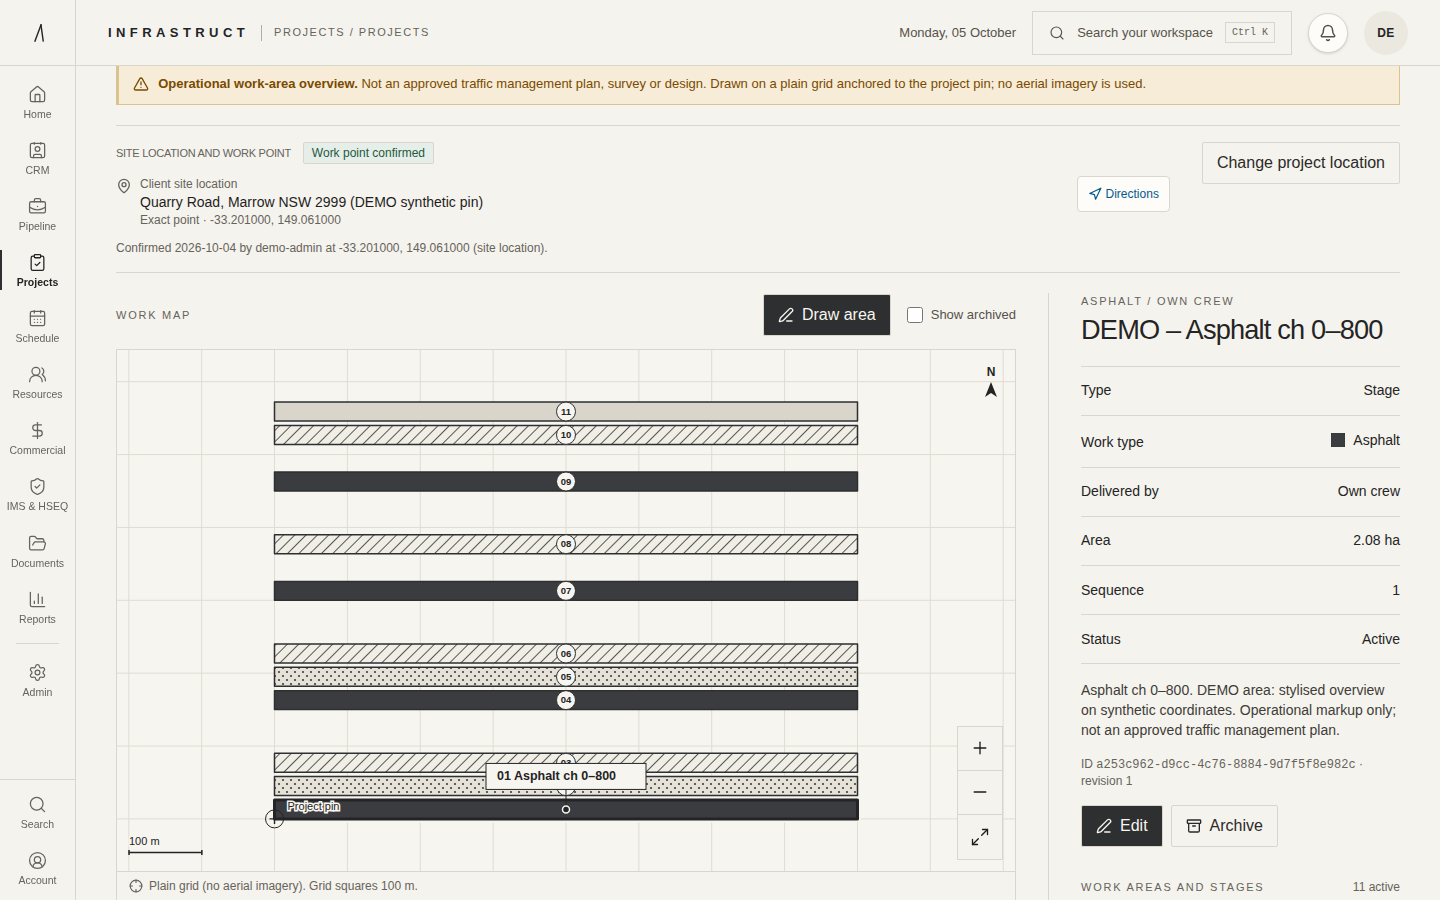
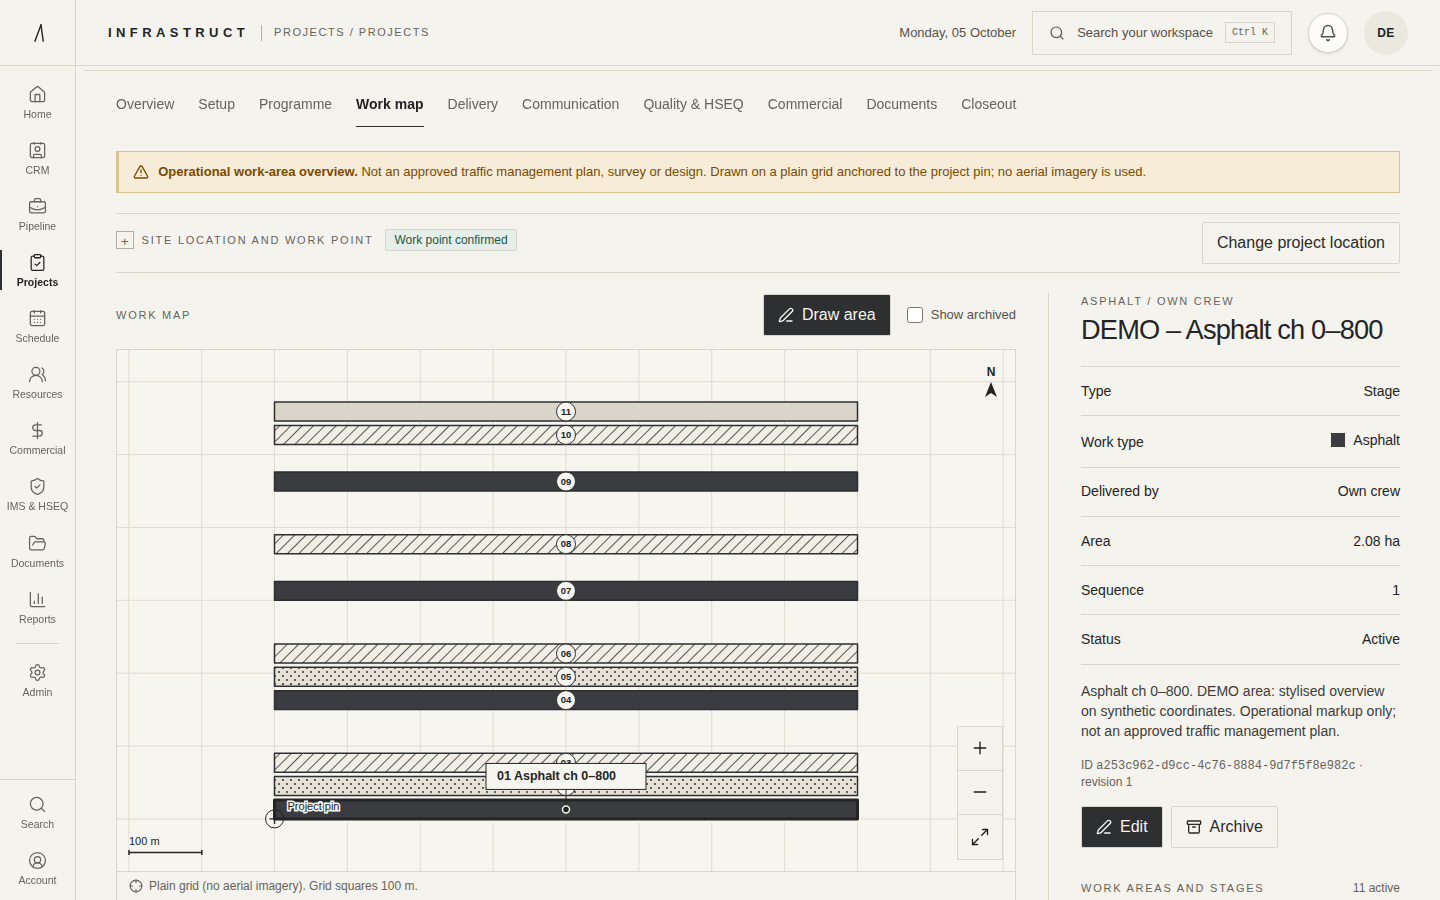
Graphite Studio: canvas-first Work map and Planning layout
Compact project header with expandable details, one-row location strip,
tighter Planning summary; journeys retargeted for the disclosures.

Claude-Session: https://claude.ai/code/session_016qGf8yC18GfRqLTggCdR9L

diff --git a/components/v1/projects.tsx b/components/v1/projects.tsx
@@ -111,17 +111,17 @@ function ProjectWorkspace({id,tab,focus,area,onBack}:{id:string;tab?:string;focu
  const tabs:Array<{key:TabKey;label:string;badge?:ReactNode;hidden?:boolean}>=[{key:'overview',label:'Overview'},{key:'setup',label:'Setup',badge:d.readiness.blockers.length&&p.stage==='setup'?<Pill tone="warning">{d.readiness.blockers.length}</Pill>:undefined},{key:'programme',label:'Programme'},{key:'workmap',label:'Work map'},{key:'delivery',label:'Delivery'},{key:'communication',label:'Communication',hidden:!session.can('communication.view')},{key:'quality',label:'Quality & HSEQ',hidden:!session.module('ims')},{key:'commercial',label:'Commercial',hidden:!session.can('commercial.view')||!session.module('commercial')},{key:'documents',label:'Documents'},{key:'closeout',label:'Closeout'}];
  const blockedReady=d.readiness.blockers.length>0,blockedClose=Boolean(d.closeout?.blockers.length);
  return <div>
-  <div className="-mx-4 mb-4 border-b bg-[var(--gs-ivory)] px-4 pb-4 pt-1 sm:-mx-6 sm:px-6 lg:-mx-8 lg:px-8">
-   <PageHeader crumbs={[{label:'Projects',onClick:onBack},{label:p.name,onClick:active==='overview'?undefined:()=>navigate(area,'Projects',id)},...(active==='overview'?[]:[{label:TAB_LABEL[active]}])]} title={p.name} badges={<StatusBadge machine="project" state={p.stage}/>}
-    subtitle={[p.projectNumber,p.clientName||'No client',p.projectManagerName?`PM ${p.projectManagerName}`:'No PM assigned',session.can('commercial.view')&&p.contractValue!=null?`Contract ${money(p.contractValue)}`:null].filter(Boolean).join(' · ')}
+  <div className="-mx-4 mb-3 border-b bg-[var(--gs-ivory)] px-4 pb-2 pt-1 sm:-mx-6 sm:px-6 lg:-mx-8 lg:px-8">
+   <PageHeader compact crumbs={[{label:'Projects',onClick:onBack},{label:p.name,onClick:active==='overview'?undefined:()=>navigate(area,'Projects',id)},...(active==='overview'?[]:[{label:TAB_LABEL[active]}])]} title={p.name} badges={<StatusBadge machine="project" state={p.stage}/>}
     actions={<div className="flex flex-wrap items-center gap-2">{p.stage==='setup'&&<Progress value={d.readiness.percent} label={blockedReady?`${d.readiness.blockers.length} blocker${d.readiness.blockers.length===1?'':'s'}`:'Ready'}/>}{moves.filter(m=>session.can(m.capability)).map(m=>{const blocked=m.to==='ready'&&blockedReady||m.to==='closed'&&blockedClose;return <Btn key={m.to} variant={m.to==='closed'?'danger':blocked?'secondary':'primary'} busy={busy} disabled={blocked} title={blocked?(m.to==='ready'?'Resolve the readiness blockers first':'Resolve the closeout items first'):undefined} onClick={()=>move(m.to)}>{m.label}</Btn>;})}</div>}/>
-   <NextAction text={p.nextAction} onClick={nextGo} actionLabel={nextTarget?.kind==='tab'?`Go to ${TAB_LABEL[nextTarget.tab]}`:'Go'}/>
+   <details key={active} className="gs-details" open={active!=='workmap'&&active!=='programme'}><summary>Details and next action</summary><p className="mb-3 text-[13px] leading-6 tracking-[0.02em] text-slate-500">{[p.projectNumber,p.clientName||'No client',p.projectManagerName?`PM ${p.projectManagerName}`:'No PM assigned',session.can('commercial.view')&&p.contractValue!=null?`Contract ${money(p.contractValue)}`:null].filter(Boolean).join(' · ')}</p>
+   <NextAction text={p.nextAction} onClick={nextGo} actionLabel={nextTarget?.kind==='tab'?`Go to ${TAB_LABEL[nextTarget.tab]}`:'Go'}/></details>
   </div>
   <ReasonDialog open={Boolean(reopening)} title="Reopen project" description="This moves the project from Closed back to Closeout so records can be added or corrected. The reason is recorded in the audit trail." label="Reason for reopening" required confirmLabel="Reopen project" busy={busy} onCancel={()=>setReopening(null)} onConfirm={r=>{const to=reopening!;setReopening(null);move(to,r);}}/>
   <ErrorState error={actionError||error} onRetry={refresh}/>
   {closed&&<p className="mb-4 rounded-lg border bg-slate-50 p-3 text-sm text-slate-600">This project is closed. Records are read-only; reopen it (with a reason) to add operational records.</p>}
   {/* Phones: one labelled picker for the seven areas (no sideways tab hunt). Same routes, so deep links and back/forward work. */}
-  <label className="sticky top-[66px] z-10 -mx-4 mb-4 grid gap-1 border-b bg-[var(--gs-ivory)] px-4 pb-3 pt-2 text-sm sm:hidden"><span className="truncate text-xs font-semibold uppercase tracking-wide text-slate-500">{p.name} · section</span><select aria-label="Project section" className={`${field} font-semibold`} value={active} onChange={e=>navigate(area,'Projects',id,e.target.value)}>{tabs.filter(t=>!t.hidden).map(t=><option key={t.key} value={t.key}>{t.label}{t.key==='setup'&&p.stage==='setup'&&d.readiness.blockers.length?` · ${d.readiness.blockers.length} blocker${d.readiness.blockers.length===1?'':'s'}`:''}</option>)}</select></label>
+  <label className="sticky top-[66px] z-10 -mx-4 mb-3 grid gap-1 border-b bg-[var(--gs-ivory)] px-4 pb-2 pt-1 text-sm sm:hidden"><span className="sr-only">Section</span><select aria-label="Project section" className={`${field} font-semibold`} value={active} onChange={e=>navigate(area,'Projects',id,e.target.value)}>{tabs.filter(t=>!t.hidden).map(t=><option key={t.key} value={t.key}>{t.label}{t.key==='setup'&&p.stage==='setup'&&d.readiness.blockers.length?` · ${d.readiness.blockers.length} blocker${d.readiness.blockers.length===1?'':'s'}`:''}</option>)}</select></label>
   <div className="hidden sm:block"><Tabs label="Project workspace" tabs={tabs} active={active} onChange={k=>navigate(area,'Projects',id,k)}/></div>
   {active==='overview'&&<Overview d={d} onTab={k=>navigate(area,'Projects',id,k)} goTarget={goTarget}/>}
   {active==='workmap'&&<WorkMap key={`${id}:${focus||''}`} projectId={id} focusId={focus}/>}

diff --git a/components/v1/work-point.tsx b/components/v1/work-point.tsx
@@ -18,18 +18,19 @@ export function WorkPointPanel({data,onChanged}:{data:WorkMapView;onChanged:()=>
  const drawn=Boolean(draft?.pin&&validPoint(draft.pin));
  const patch=(body:Record<string,unknown>,done:string)=>void act.run(()=>api('/api/projects/workspace',{method:'PATCH',body:{id:data.projectId,revision:data.projectRevision,...body}}),()=>{setEditing(false);setDraft(null);setNote(done);onChanged();});
  const confirm=()=>void act.run(()=>api('/api/projects/work-point',{method:'POST',body:{projectId:data.projectId}}),()=>{setNote('Work point confirmed.');onChanged();});
- return <section aria-label="Site location and work point" className="border-y border-[var(--gs-line)] py-4">
+ return <section aria-label="Site location and work point" className="border-y border-[var(--gs-line)] py-2">
   <div className="grid gap-x-8 gap-y-3 lg:grid-cols-[minmax(0,1fr)_auto]" data-testid="work-point" data-status={wp.status}>
    <div className="grid min-w-0 gap-3">
-    <div className="flex flex-wrap items-center gap-x-3 gap-y-1"><h2 className="gs-eyebrow">Site location and work point</h2><Pill tone={TONE[wp.status]}>{LABEL[wp.status]}</Pill></div>
+    <details className="gs-details"><summary className="!min-h-9 !normal-case !tracking-normal"><span className="flex flex-wrap items-center gap-x-3 gap-y-1"><span className="gs-eyebrow">Site location and work point</span><Pill tone={TONE[wp.status]}>{LABEL[wp.status]}</Pill></span></summary><div className="grid gap-3 pb-2">
     {wp.current?<LocationSummary label={wp.source==='project'?'Project location (set for this project; the client site is unchanged)':wp.source==='site'?'Client site location':'Location'} location={{...EMPTY_PARTS,pin:wp.current,formattedAddress:wp.label}}/>:<p className="text-sm text-slate-600">No location is saved for this project yet. Search the site address or enter coordinates, then confirm the work point.</p>}
+    {wp.confirmed&&<p className="text-xs text-slate-500" data-testid="work-point-confirmed">Confirmed {wp.confirmed.confirmedAt.slice(0,10)}{wp.confirmed.confirmedBy?` by ${wp.confirmed.confirmedBy}`:''} at {wp.confirmed.point.lat.toFixed(6)}, {wp.confirmed.point.lng.toFixed(6)} ({wp.confirmed.source} location).</p>}
+    </div></details>
     {wp.status==='moved'&&<p role="alert" className="gs-note gs-note-error" data-testid="work-point-moved"><AlertTriangle aria-hidden className="mt-0.5 size-4 shrink-0"/><span><strong>The project location moved {wp.distanceM?.toLocaleString('en-AU')} m</strong> from the confirmed work point. Saved work areas have <strong>not</strong> moved: they stay where they were drawn. Review them against the new location, then confirm the new work point.</span></p>}
     {wp.status==='unconfirmed'&&hasAreas&&<p role="status" className="gs-note gs-note-warn" data-testid="work-point-unconfirmed"><AlertTriangle aria-hidden className="mt-0.5 size-4 shrink-0"/><span>The work point has not been confirmed. Check the pin and confirm it so later address changes can be flagged.</span></p>}
-    {wp.confirmed&&<p className="text-xs text-slate-500" data-testid="work-point-confirmed">Confirmed {wp.confirmed.confirmedAt.slice(0,10)}{wp.confirmed.confirmedBy?` by ${wp.confirmed.confirmedBy}`:''} at {wp.confirmed.point.lat.toFixed(6)}, {wp.confirmed.point.lng.toFixed(6)} ({wp.confirmed.source} location).</p>}
     {note&&<p role="status" className="gs-note gs-note-ok"><CheckCircle2 aria-hidden className="mt-0.5 size-4 shrink-0"/><span>{note}</span></p>}
     {act.error&&<p role="alert" className="gs-note gs-note-error" data-testid="work-point-error"><AlertTriangle aria-hidden className="mt-0.5 size-4 shrink-0"/><span>{act.error}</span></p>}
    </div>
-   {data.canEdit&&!editing&&<div className="flex flex-wrap content-start gap-2 lg:max-w-[22rem] lg:justify-end">
+   {data.canEdit&&!editing&&<div className="flex flex-wrap content-start gap-2 lg:max-w-[22rem] lg:justify-end [&_button]:max-sm:min-h-10 [&_button]:max-sm:text-sm">
     {wp.current&&wp.status!=='confirmed'&&<Btn onClick={confirm} busy={act.busy} data-testid="confirm-work-point"><MapPin aria-hidden className="size-4"/>Confirm this work point</Btn>}
     <Btn variant="secondary" onClick={()=>{setEditing(true);setNote('');act.setError('');}} data-testid="change-location">{wp.current?'Change project location':'Set project location'}</Btn>
     {wp.source==='project'&&<Btn variant="secondary" onClick={()=>patch({useSiteLocation:true},'Using the client site location again. Work areas did not move.')} busy={act.busy} data-testid="use-site-location">Use the client site location</Btn>}

diff --git a/components/v1/planning.tsx b/components/v1/planning.tsx
@@ -140,7 +140,7 @@ function Editor({scenarioId,onBack}:{scenarioId:string;onBack:()=>void}){
  const unknownCount=total?.unknownCount??0,durationUnknown=!result.duration.complete;
  const leave=()=>{if(dirty&&!window.confirm('You have unsaved changes to this plan. Leave without saving?'))return;onBack();};
  return <div className={`plan-ui space-y-5 lg:pb-0 ${selectedAct&&view!=='Costs'&&!drawer?(sheetOpen?'pb-[62vh]':'pb-32'):'pb-24'}`}>
-  <PageHeader crumbs={[{label:'Planning',onClick:leave},{label:data.plan.name}]} title={data.plan.name} subtitle="Undated methodology plan. The timeline is relative: working days from the start of the plan, with no availability claims."
+  <PageHeader compact crumbs={[{label:'Planning',onClick:leave},{label:data.plan.name}]} title={data.plan.name} subtitle="Undated methodology plan. The timeline is relative: working days from the start of the plan, with no availability claims."
    badges={<><Pill tone="info">Scenario: {data.scenario.name}</Pill>{dirty&&<Pill tone="warning">Unsaved changes</Pill>}</>}/>
   <div data-testid="plan-actionbar" className="plan-actionbar sticky top-0 z-30 -mx-1 flex flex-wrap items-center justify-between gap-2 rounded-xl px-3 py-2">
    <p className="text-sm text-slate-600" aria-live="off">{!editable?'View only':dirty?<span className="font-medium text-amber-800">Edits not saved yet</span>:'No pending edits'}</p>
@@ -160,12 +160,12 @@ function Editor({scenarioId,onBack}:{scenarioId:string;onBack:()=>void}){
   <div className="plan-card min-w-0 overflow-hidden">
    <div className="flex flex-wrap items-center justify-between gap-3 border-b border-[var(--plan-line)] px-3 py-2.5 sm:px-4">
     <Tabs label="Planning views" active={view} onChange={setView} tabs={[{key:'Flowchart',label:'Flowchart'},{key:'Timeline',label:'Relative timeline'},{key:'Costs',label:'Costs'}]}/>
-    <div className="flex flex-wrap items-center gap-2">
-     <select aria-label="Scenario" className={`${fieldClass} !min-h-10 !w-auto max-w-[14rem]`} value={data.scenario.id} disabled={dirty} onChange={e=>setCurrent(e.target.value)}>{data.plan.scenarios.map(s=><option key={s.id} value={s.id}>{s.name}</option>)}</select>
+    <div className="flex min-w-0 flex-wrap items-center gap-2 max-sm:w-full">
+     <select aria-label="Scenario" className={`${fieldClass} !min-h-10 !w-auto max-w-[14rem] max-sm:!max-w-full`} value={data.scenario.id} disabled={dirty} onChange={e=>setCurrent(e.target.value)}>{data.plan.scenarios.map(s=><option key={s.id} value={s.id}>{s.name}</option>)}</select>
      {dirty&&<p className="text-xs text-slate-500">Save or discard changes before switching.</p>}
     </div>
    </div>
-   {editable&&!dirty&&<form className="flex flex-wrap items-end gap-2 border-b border-[var(--plan-line)] px-3 py-2.5 sm:px-4" onSubmit={e=>{e.preventDefault();if(newName.trim())void newScenario();}}><Field label="Save a copy as a new scenario"><input className={fieldClass} value={newName} maxLength={180} onChange={e=>setNewName(e.target.value)} placeholder="e.g. Night shift option"/></Field><Btn type="submit" variant="secondary" disabled={!newName.trim()} busy={save.busy}><GitBranch aria-hidden className="size-4"/>New scenario</Btn></form>}
+   {editable&&!dirty&&<details className="gs-details border-b border-[var(--plan-line)] px-3 sm:px-4"><summary>New scenario</summary><form className="flex flex-wrap items-end gap-2 pb-3" onSubmit={e=>{e.preventDefault();if(newName.trim())void newScenario();}}><Field label="Save a copy as a new scenario"><input className={fieldClass} value={newName} maxLength={180} onChange={e=>setNewName(e.target.value)} placeholder="e.g. Night shift option"/></Field><Btn type="submit" variant="secondary" disabled={!newName.trim()} busy={save.busy}><GitBranch aria-hidden className="size-4"/>New scenario</Btn></form></details>}
    <div className="p-3 sm:p-4">
     {view==='Flowchart'&&<div className="md:hidden"><div className="mb-3 inline-flex rounded-lg bg-[var(--plan-soft)] p-1 text-sm" role="group" aria-label="Flowchart layout"><button aria-pressed={!mobileCanvas} className={`rounded-md px-3 py-1.5 ${!mobileCanvas?'bg-white font-semibold shadow-sm':'text-slate-600'}`} onClick={()=>setMobileCanvas(false)}>List</button><button aria-pressed={mobileCanvas} className={`rounded-md px-3 py-1.5 ${mobileCanvas?'bg-white font-semibold shadow-sm':'text-slate-600'}`} onClick={()=>setMobileCanvas(true)}>Canvas</button></div></div>}
     {view==='Flowchart'&&<>

diff --git a/components/v1/kit.tsx b/components/v1/kit.tsx
@@ -70,8 +70,8 @@ export function Crumbs({items}:{items:Array<{label:string;onClick?:()=>void}>}){
  return <nav aria-label="Breadcrumb" className="gs-crumb mb-2 flex flex-wrap items-center gap-1 max-sm:flex-nowrap max-sm:overflow-hidden">{items.map((c,i)=><span key={i} className="flex min-w-0 items-center gap-1 max-sm:[&:not(:first-child):not(:last-child)]:hidden">{i>0&&<ChevronRight aria-hidden className="size-3"/>}{c.onClick?<button className="uppercase hover:text-slate-900 hover:underline" onClick={c.onClick}>{c.label}</button>:<span className="text-slate-700">{c.label}</span>}</span>)}</nav>;
 }
 
-export function PageHeader({title,subtitle,actions,crumbs,badges}:{title:ReactNode;subtitle?:ReactNode;actions?:ReactNode;crumbs?:Array<{label:string;onClick?:()=>void}>;badges?:ReactNode}){
- return <header className="workspace-page-header mb-7">{crumbs&&<Crumbs items={crumbs}/>}<div className="flex flex-wrap items-end justify-between gap-x-6 gap-y-3"><div className="min-w-0"><h1 className="gs-title flex flex-wrap items-center gap-x-3 gap-y-1">{title}{badges&&<span className="inline-flex items-center text-[13px] font-normal tracking-normal">{badges}</span>}</h1>{subtitle&&<p className="mt-2.5 max-w-3xl text-[13px] leading-6 tracking-[0.02em] text-slate-500">{subtitle}</p>}</div>{actions&&<div className="flex flex-wrap gap-2">{actions}</div>}</div></header>;
+export function PageHeader({title,subtitle,actions,crumbs,badges,compact}:{compact?:boolean;title:ReactNode;subtitle?:ReactNode;actions?:ReactNode;crumbs?:Array<{label:string;onClick?:()=>void}>;badges?:ReactNode}){
+ return <header className={`workspace-page-header ${compact?'gs-compact mb-3':'mb-7'}`}>{crumbs&&<Crumbs items={crumbs}/>}<div className="flex flex-wrap items-end justify-between gap-x-6 gap-y-3"><div className="min-w-0"><h1 className="gs-title flex flex-wrap items-center gap-x-3 gap-y-1">{title}{badges&&<span className="inline-flex items-center text-[13px] font-normal tracking-normal">{badges}</span>}</h1>{subtitle&&<p className="mt-2.5 max-w-3xl text-[13px] leading-6 tracking-[0.02em] text-slate-500">{subtitle}</p>}</div>{actions&&<div className="flex flex-wrap gap-2">{actions}</div>}</div></header>;
 }
 
 export function Section({title,description,actions,children,className=''}:{title?:ReactNode;description?:ReactNode;actions?:ReactNode;children:ReactNode;className?:string}){

diff --git a/app/globals.css b/app/globals.css
@@ -475,3 +475,34 @@ body { font-family: "Helvetica Neue", "Aptos", "Inter", "Segoe UI", Arial, sans-
 .plan-ui .plan-group { border: 1px solid var(--gs-line); border-radius: 2px; background: transparent; }
 .plan-ui .plan-legend { font-size: 11px; font-weight: 500; letter-spacing: .14em; color: var(--gs-muted); }
 .plan-ui [class*="rounded-xl"], .plan-ui [class*="rounded-lg"], .plan-ui [class*="rounded-2xl"] { border-radius: 2px; }
+
+/* Canvas-first: compact page header, details disclosure, tighter plan summary */
+.gs-compact .gs-title{font-size:1.5rem;line-height:1.2}
+@media(min-width:640px){.gs-compact .gs-title{font-size:1.75rem}}
+.gs-details>summary{cursor:pointer;list-style:none;display:flex;align-items:center;gap:.5rem;min-height:2.75rem;font-size:.75rem;letter-spacing:.14em;text-transform:uppercase;color:var(--gs-muted)}
+.gs-details>summary::-webkit-details-marker{display:none}
+.gs-details>summary::before{content:"+";display:inline-grid;place-items:center;width:1.1rem;height:1.1rem;border:1px solid var(--gs-line-strong);font-size:.85rem;letter-spacing:0}
+.gs-details[open]>summary::before{content:"\2212"}
+.plan-ui .plan-kpis{grid-template-columns:repeat(3,minmax(0,1fr))}
+@media(max-width:639px){.plan-ui .plan-hint{display:none}.plan-ui .plan-kpi{padding:.6rem .7rem}.plan-ui .plan-figure{font-size:1.1rem}}
+
+@media(max-width:639px){
+ .gs-compact .gs-crumb,.gs-compact nav[aria-label="Breadcrumb"]{display:none}
+ .gs-compact .gs-title{font-size:1.2rem}
+ .workspace-page-header.gs-compact{margin-bottom:.25rem}
+}
+.gs-compact{margin-bottom:.5rem}
+
+.plan-ui .plan-kpi{padding:.7rem 1rem}
+.plan-ui .plan-figure{font-size:1.5rem;line-height:1.2}
+@media(max-width:639px){
+ .gs-note{font-size:.75rem;line-height:1.25rem;padding:.5rem .65rem}
+ .gs-compact .gs-title{font-size:1.1rem}
+}
+@media(max-width:639px){
+ .plan-ui .plan-kpis{grid-template-columns:1fr}
+ .plan-ui .plan-kpi{display:flex;flex-wrap:wrap;align-items:baseline;justify-content:space-between;gap:.25rem .75rem;padding:.5rem .75rem}
+ .plan-ui .plan-kpi .plan-chip{display:none}
+ .plan-ui .plan-figure,.plan-ui .plan-figure-sm{font-size:1.05rem;margin:0}
+ .plan-ui select[aria-label="Scenario"]{max-width:100%;width:100%!important}
+}

diff --git a/docs/DESIGN-GRAPHITE-STUDIO.md b/docs/DESIGN-GRAPHITE-STUDIO.md
@@ -13,6 +13,12 @@ ivory `#f5f3ee` · paper `#faf9f5` · sheet `#fdfcf9` · fog `#ebe8e0` · line `
 ## Covered
 App shell (icon rail, quiet top bar, section tabs in the page header, flat mobile nav), Work map (canvas, label chip, contextual detail panel, compact list, edit form), work-point strip, Planning (list, editor, canvas, inspector), shift work-area picker swatches. Behaviour, permissions, redaction, geometry and save/retry states are unchanged; map shows no imagery.
 
+## Canvas-first layout (second commit)
+- Project pages: compact header (title, status, primary action); client/PM/contract metadata and the next action sit in an expandable "Details and next action" (open on Overview/Setup, closed on Work map and Programme). The duplicate crumb row and section label are hidden on phones.
+- Work map: the site-location strip is one row (title, status, Change location); coordinates and confirmation detail are under "Location details". The safety banner, moved/unconfirmed work-point warnings and every control stay visible.
+- Planning: compact header, KPI strip is a tight row (stacked rows on phones), "New scenario" is a disclosure; the undated-plan statement stays visible.
+- Canvas now starts about 510 px from the top on a 1440x900 desktop (was about 640) and inside the first screen on a 390x844 phone for Work map.
+
 ## Not redesigned (inherit tokens/controls only, layouts unchanged)
 Home, CRM, Pipeline/tendering, Estimating, Schedule, Resources, Commercial, IMS & HSEQ, Documents, Reports, Admin, Field/dockets, login/onboarding, remaining Projects tabs.
 
